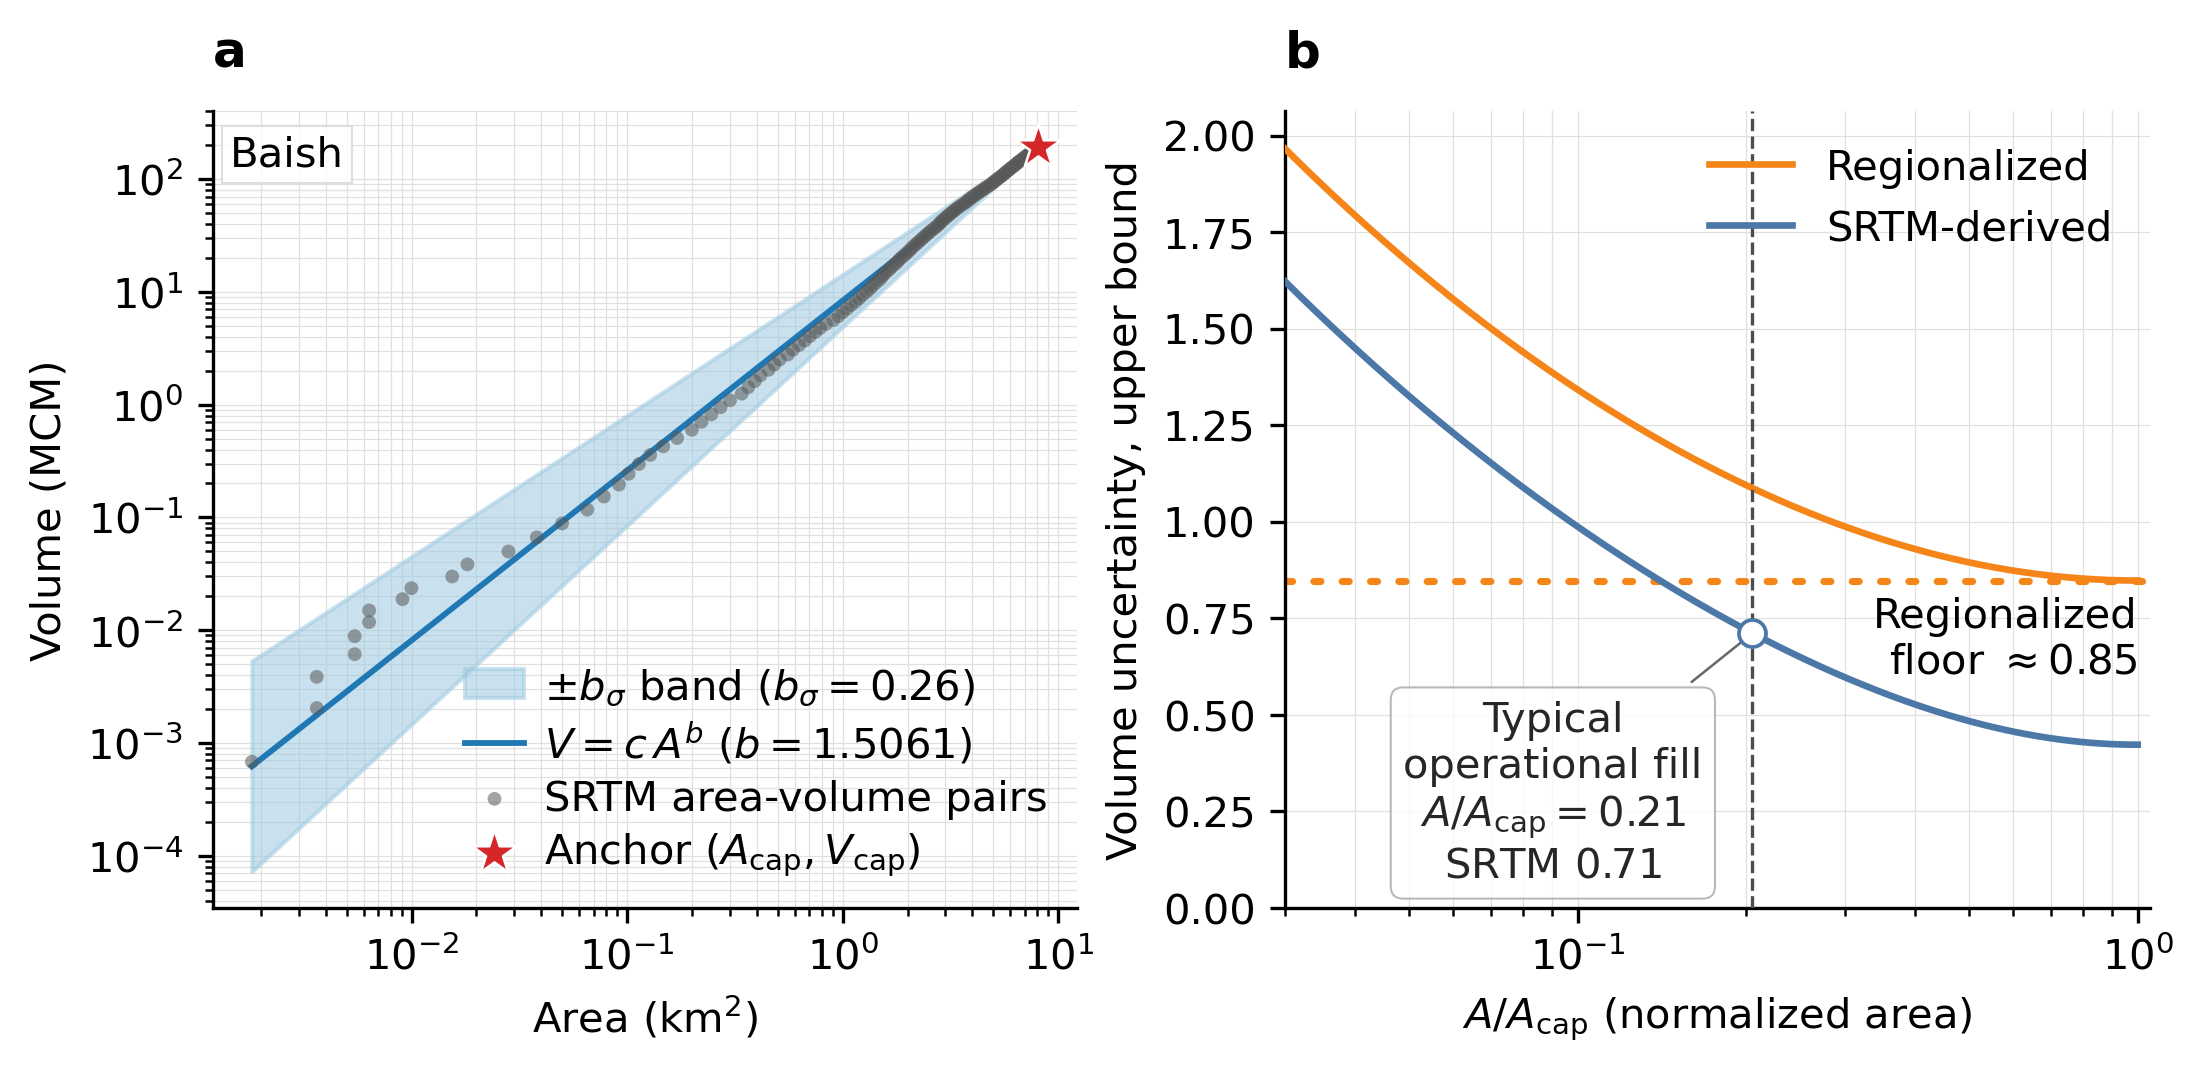
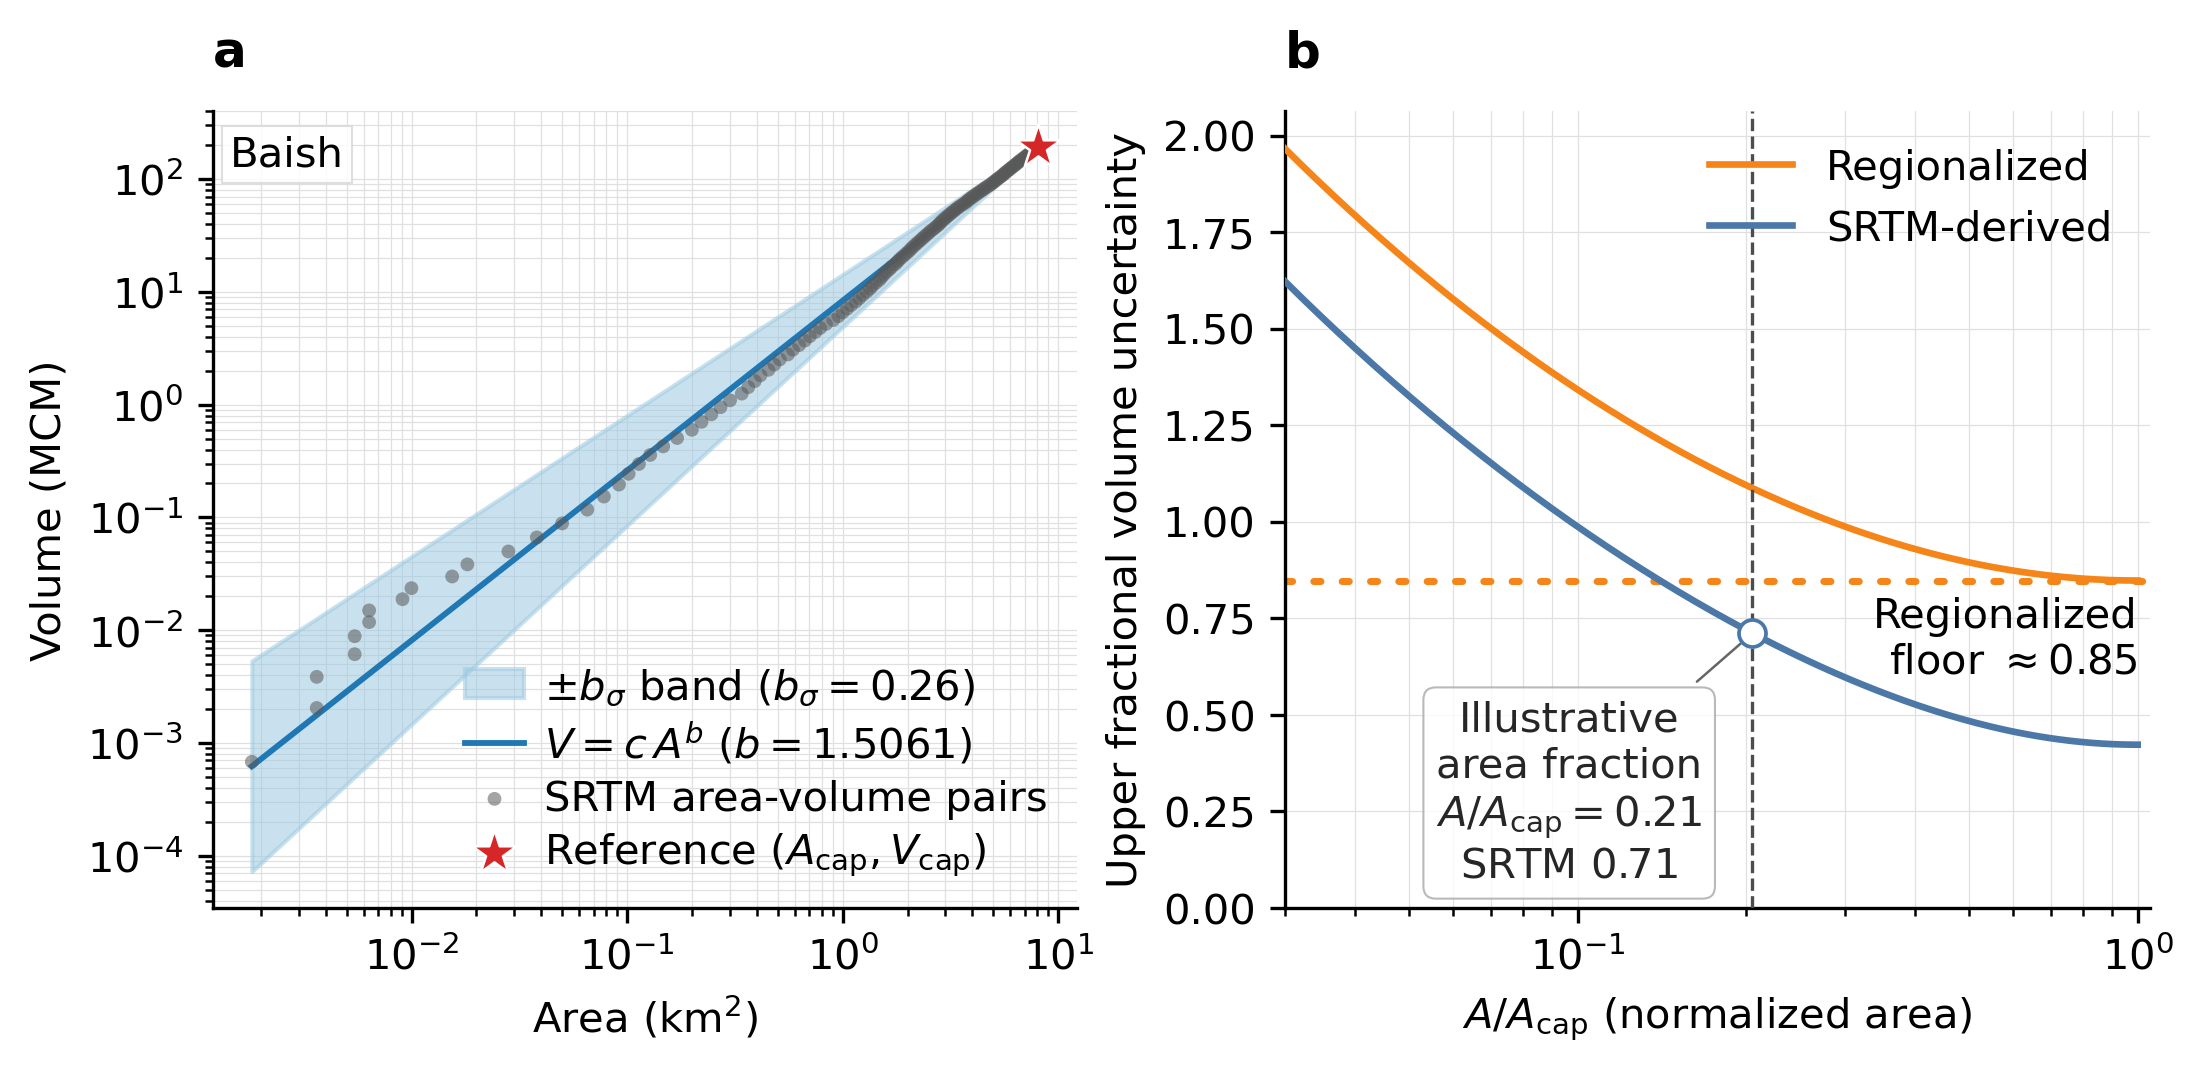
Panels s2 and s3 name the illustrative area fraction and show 10th to 90th percentile intervals
Panel s2 separates the exponent contribution from the combined
parameterization bands, names the marker at the median satellite-to-DEM
area ratio an illustrative area fraction and calls the star the reference
point. Panel s3 summarizes the variation among dams within each capacity
class with 10th to 90th percentile intervals. The plotted values are
unchanged, the report caption and the outputs page follow.

Changed region(s): [[0.6173, 0.6465, 0.7717, 0.8312], [0.4939, 0.1231, 0.5247, 0.8312], [0.2469, 0.7696, 0.4321, 0.8312]]

diff --git a/eaves/postprocess/panels/s2.py b/eaves/postprocess/panels/s2.py
@@ -1,11 +1,11 @@
-"""Panel s2 (supplementary): V uncertainty propagation from ``b_sigma``.
+"""Panel s2 (supplementary): parameterization uncertainty in reservoir volume.
 
-Two-panel illustration of how the population-level 1σ uncertainty on b
-propagates to a volume confidence band:
+Two-panel illustration of the exponent contribution and the combined
+parameterization bands:
 
 Panel a: Baish reservoir, SRTM-derived V(A) curve with the ±b_σ fan band of
-the geometric term alone, all curves pinned through the catalog full-pool
-anchor (A_cap, V_cap). Band and curve span the full SRTM data range.
+the geometric term alone, with a fixed reference point (A_cap, V_cap)
+defined on the fitted power law by catalog capacity.
 
 Panel b: Upper bound 10^σ − 1 of the two σ(log10 V) tiers as a function of
 normalized area. The SRTM-derived tier combines the band term
@@ -13,8 +13,9 @@ b_σ·|log10(A/A_cap)| in quadrature with the catalog-capacity term σ_logVcap.
 The regionalized tier adds the predicted-area term,
 σ_regi(A) = √((b·σ_logAcap)² + (b_σ·log10(A/A_cap))² + σ_logVcap²).
 The regionalized constants are the ``regi_multi`` medians read from
-``<CSV_DIR>/validation/v_uncertainty.csv``. The regional typical operational
-fill level is marked on the SRTM-derived curve, with the value of that curve.
+``<CSV_DIR>/validation/v_uncertainty.csv``. An illustrative area fraction,
+set to the median satellite-to-DEM area ratio, is marked on the SRTM-derived
+curve. This benchmark is not an estimate of the typical operating stage.
 """
 
 from __future__ import annotations
@@ -71,7 +72,8 @@ def _load_baish() -> tuple[dict, pd.DataFrame]:
     return info, eav
 
 
-def _typical_fill_level() -> float | None:
+def _illustrative_area_fraction() -> float | None:
+    """Returns the median satellite-to-DEM area ratio used as an illustrative fraction."""
     p = Path(_cfg.CSV_DIR) / "validation" / "dem_vs_sat_area.csv"
     if not p.exists():
         return None
@@ -106,7 +108,7 @@ def make_s2_uncertainty(out_dir: Path) -> Path:
     apply_style()
 
     info, eav = _load_baish()
-    typical_fill = _typical_fill_level()
+    area_fraction = _illustrative_area_fraction()
     regi = _regi_constants()
 
     out_dir = Path(out_dir)
@@ -151,7 +153,7 @@ def make_s2_uncertainty(out_dir: Path) -> Path:
         ax_a.scatter([A_cap / 1e6], [V_cap / 1e6],
                      marker="*", s=125, facecolor=_ANCHOR_COLOR,
                      edgecolor="white", linewidth=0.6, zorder=5,
-                     label=r"Anchor $(A_\mathrm{cap}, V_\mathrm{cap})$")
+                     label=r"Reference $(A_\mathrm{cap}, V_\mathrm{cap})$")
 
         ax_a.text(0.02, 0.97, info["dam_name"], transform=ax_a.transAxes,
                   ha="left", va="top",
@@ -197,19 +199,19 @@ def make_s2_uncertainty(out_dir: Path) -> Path:
                   "Regionalized\n" rf"floor $\approx {unc_floor:.2f}$",
                   color="black", ha="right", va="top", multialignment="right")
 
-        if typical_fill is not None and 0.02 < typical_fill < 1.0:
+        if area_fraction is not None and 0.02 < area_fraction < 1.0:
             # Uses the same expression as the SRTM-derived curve
-            sig_typ = float(np.hypot(b_sigma * np.log10(typical_fill), sig_vcap))
-            unc_typ = 10.0 ** sig_typ - 1.0
-            ax_b.axvline(typical_fill, color="0.30", linewidth=0.8,
+            sig_fraction = float(np.hypot(b_sigma * np.log10(area_fraction), sig_vcap))
+            unc_fraction = 10.0 ** sig_fraction - 1.0
+            ax_b.axvline(area_fraction, color="0.30", linewidth=0.8,
                          linestyle="--", zorder=4)
-            ax_b.scatter([typical_fill], [unc_typ], s=42, facecolor="white",
+            ax_b.scatter([area_fraction], [unc_fraction], s=42, facecolor="white",
                          edgecolor=COL_SRTM, linewidth=0.9, zorder=5)
             ax_b.annotate(
-                rf"Typical" "\n" rf"operational fill" "\n"
-                rf"$A/A_\mathrm{{cap}}={typical_fill:.2f}$" "\n"
-                rf"SRTM ${unc_typ:.2f}$",
-                xy=(typical_fill, unc_typ), xytext=(-12, -16),
+                rf"Illustrative" "\n" rf"area fraction" "\n"
+                rf"$A/A_\mathrm{{cap}}={area_fraction:.2f}$" "\n"
+                rf"SRTM ${unc_fraction:.2f}$",
+                xy=(area_fraction, unc_fraction), xytext=(-12, -16),
                 textcoords="offset points", color="0.15", ha="right", va="top",
                 multialignment="center",
                 bbox=dict(boxstyle="round,pad=0.3", facecolor="white", alpha=0.78,
@@ -219,7 +221,7 @@ def make_s2_uncertainty(out_dir: Path) -> Path:
 
         ax_b.set_xscale("log")
         ax_b.set_xlabel(r"$A / A_\mathrm{cap}$ (normalized area)")
-        ax_b.set_ylabel("Volume uncertainty, upper bound")
+        ax_b.set_ylabel("Upper fractional volume uncertainty")
         ax_b.set_xlim(frac.min(), 1.05)
         y_top = (10.0 ** max(
             b_sigma * abs(np.log10(frac.min())),

diff --git a/eaves/postprocess/panels/s3.py b/eaves/postprocess/panels/s3.py
@@ -12,8 +12,8 @@ Panel a: per-dam fractional volume uncertainty versus storage capacity
 drawn as a segment across the class capacity range and annotated. A dam with
 fewer than ``_MIN_VALID_REALIZATIONS`` valid realizations is left out.
 
-Panel b: the same spread summarized by capacity class, median and P16 to P84
-range over the per-dam strip, with the medians annotated.
+Panel b: the same spread summarized by capacity class, median and 10th to
+90th percentile interval over the per-dam strip, with the medians annotated.
 
 Reads:
 
@@ -105,7 +105,7 @@ def _draw_panel_a(ax, df: pd.DataFrame, y_max: float) -> None:
 
 
 def _draw_panel_b(ax, df: pd.DataFrame, y_max: float) -> None:
-    """Panel b, median and P16 to P84 range per capacity class over the per-dam strip."""
+    """Panel b, median and 10th to 90th percentile interval per capacity class over the per-dam strip."""
     xs = np.arange(len(_CLASS_LABELS))
     for i in range(len(_CLASS_LABELS)):
         sub = df[df["class_idx"] == i]
@@ -113,21 +113,21 @@ def _draw_panel_b(ax, df: pd.DataFrame, y_max: float) -> None:
             continue
         vals = (10.0 ** sub[_SIGMA].values - 1.0)
         med = float(np.median(vals))
-        p16 = float(np.quantile(vals, 0.16))
-        p84 = float(np.quantile(vals, 0.84))
+        p10 = float(np.quantile(vals, 0.10))
+        p90 = float(np.quantile(vals, 0.90))
         # Draws a jittered per-dam strip behind the summary marker
         jitter = (np.random.default_rng(i).random(len(vals)) - 0.5) * 0.18
         ax.scatter(xs[i] + jitter, vals, s=14, color=_CLASS_COLORS[i],
                    alpha=0.40, edgecolor="none", zorder=2)
         ax.errorbar(
-            xs[i], med, yerr=[[med - p16], [p84 - med]],
+            xs[i], med, yerr=[[med - p10], [p90 - med]],
             fmt="o", markersize=8, color=_CLASS_COLORS[i],
             ecolor=_CLASS_COLORS[i], elinewidth=1.6, capsize=5,
             capthick=1.6, zorder=4,
         )
         ax.annotate(
             f"{med:.2f}",
-            xy=(xs[i], p84), xytext=(0, 7),
+            xy=(xs[i], p90), xytext=(0, 7),
             textcoords="offset points", color="black", fontsize=10,
             ha="center", va="bottom",
         )
@@ -148,7 +148,7 @@ def make_s3_dem_error(out_dir: Path) -> Path:
     """Renders s3, the per-dam DEM-error volume uncertainty and its by-class summary in one row.
 
     Panel a: per-dam uncertainty against storage capacity with the class medians.
-    Panel b: median and P16 to P84 range per capacity class.
+    Panel b: median and 10th to 90th percentile interval per capacity class.
     """
     out_dir = Path(out_dir)
     out_dir.mkdir(parents=True, exist_ok=True)

diff --git a/eaves/postprocess/report.py b/eaves/postprocess/report.py
@@ -1599,23 +1599,18 @@ def render_report_md(stats: dict, generated_at: str) -> str:
     ))
     L.extend(_embed_figure(
         "s2_uncertainty_band.png",
-        "Supplementary: Per-dam volume uncertainty band",
-        "Figure S2. Per-dam volume uncertainty band. "
+        "Supplementary: Parameterization uncertainty bands for reservoir volume",
+        "Figure S2. Parameterization uncertainty bands for reservoir volume. "
         f"(a) Worked example on {exname} dam. The ±b_σ band shows the "
-        "geometric term alone. It is forced through the catalog full-pool "
-        "anchor (red star) and widens at lower water levels. (b) The two "
-        "σ(log₁₀V) tiers versus normalized area, "
-        "shown as the upper bound of the band. The SRTM-derived tier is "
-        f"floored by the catalog-capacity term ({floor_srtm} at the anchor) "
-        "and widens with the geometric b_σ term away from full pool, while "
-        "the regionalized tier adds the area-independent "
-        f"anchor terms and floors near {floor_regi}. The regional typical "
-        "operational fill level (the median 95th-percentile observed extent "
-        "as a fraction of the SRTM-derived full-pool area) is overlaid as a "
-        "vertical dashed line, and a marker on "
-        "the SRTM-derived curve gives the band at that level, so the V "
-        "uncertainty at the fill level at which most reservoirs in this "
-        "region operate can be read off directly.",
+        "exponent contribution with a fixed reference point "
+        "(A_cap, V_cap) on the fitted power law (red star). "
+        "(b) The combined bands versus normalized area, plotted as the "
+        "upper fractional deviation 10<sup>σ</sup> − 1. At the reference "
+        f"area, the SRTM-derived band is {floor_srtm} and the regionalized "
+        f"band is {floor_regi}. The dashed line marks an illustrative "
+        "area fraction set to the median ratio of the 95th-percentile "
+        "satellite water extent to the SRTM-derived full-pool area. "
+        "The circle gives the combined SRTM-derived band at this benchmark.",
     ))
     A("")
 

diff --git a/region/ksa/output/report.md b/region/ksa/output/report.md
@@ -222,9 +222,9 @@ To run EAVES on a new region, give the paths of the dam catalog, the DEM and the
 
 _Figure S1. K-means clustering diagnostic on the training-set dams in log-transformed morphometric feature space. (a) Mean silhouette coefficient versus number of clusters k for the six morphometric features. It remains below the conventional 0.50 reasonable-structure threshold for every k. The k = 2 peak at 0.37 reflects a cut across the dominant gradient of panel b, not two morphological types. (b) The training dams in the plane of the first two principal components of the standardized log-transformed features, colored by b, with marker shapes for the clusters at the best k of panel c. The first two components carry 60% and 16% of the variance, and b varies along the first (Spearman ρ = -0.41), so the dams form one continuous cloud along which b changes gradually. (c) Leave-one-out σ(Δb) for a per-cluster-median predictor of b versus the global-median baseline (dashed). The best configuration (k = 3) lowers σ(Δb) by 14%, while its leave-one-out R² stays at 0.09, below the 0.25 gate._
 
-![Supplementary: Per-dam volume uncertainty band](2_results_plots/s2_uncertainty_band.png)
+![Supplementary: Parameterization uncertainty bands for reservoir volume](2_results_plots/s2_uncertainty_band.png)
 
-_Figure S2. Per-dam volume uncertainty band. (a) Worked example on Baish dam. The ±b_σ band shows the geometric term alone. It is forced through the catalog full-pool anchor (red star) and widens at lower water levels. (b) The two σ(log₁₀V) tiers versus normalized area, shown as the upper bound of the band. The SRTM-derived tier is floored by the catalog-capacity term (+42%/-30% at the anchor) and widens with the geometric b_σ term away from full pool, while the regionalized tier adds the area-independent anchor terms and floors near +85%/-46%. The regional typical operational fill level (the median 95th-percentile observed extent as a fraction of the SRTM-derived full-pool area) is overlaid as a vertical dashed line, and a marker on the SRTM-derived curve gives the band at that level, so the V uncertainty at the fill level at which most reservoirs in this region operate can be read off directly._
+_Figure S2. Parameterization uncertainty bands for reservoir volume. (a) Worked example on Baish dam. The ±b_σ band shows the exponent contribution with a fixed reference point (A_cap, V_cap) on the fitted power law (red star). (b) The combined bands versus normalized area, plotted as the upper fractional deviation 10<sup>σ</sup> − 1. At the reference area, the SRTM-derived band is +42%/-30% and the regionalized band is +85%/-46%. The dashed line marks an illustrative area fraction set to the median ratio of the 95th-percentile satellite water extent to the SRTM-derived full-pool area. The circle gives the combined SRTM-derived band at this benchmark._
 
 ## Files produced
 

diff --git a/documentation/outputs.md b/documentation/outputs.md
@@ -37,8 +37,8 @@ Every panel is emitted as both a 300-dpi PNG and a vector PDF with the same stem
 | `p5_comparison.png` | Baish comparison and domain-wide volume ratio, (a) area-volume and (b) elevation-area curves from SRTM, the 2025 sonar survey and the design table, and (c) the distribution of maximum SRTM-derived volume divided by catalog capacity. SRTM shows the valley in 2000 and the survey the reservoir in 2025, so the comparison alone cannot separate reconstruction error from changes in reservoir geometry |
 | `p6_grdl_comparison.png` | Comparison of SRTM-derived and GRDL reservoir curves at Baish, Hali and Rabigh, (a) area-volume and (b) depth-area curves, one row per dam. Both products use SRTM and GRDL is itself a reconstruction, so the comparison assesses consistency rather than accuracy against measured bathymetry |
 | `s1_b_clustering_silhouette.png` | Supplementary: K-means clustering diagnostic for `b` on the training set, (a) the silhouette over k, (b) the training dams in the plane of the first two principal components, colored by `b`, where they form one continuous cloud along which `b` changes gradually, and (c) the LOO σ(Δb) over k |
-| `s2_uncertainty_band.png` | Supplementary: the per-dam V uncertainty band, (a) the worked example on Baish and (b) the two band tiers versus normalized area, with the regionalized floor and the typical operational fill level marked |
-| `s3_dem_error.png` | Supplementary: SRTM vertical-error Monte Carlo volume spread by size class |
+| `s2_uncertainty_band.png` | Supplementary: parameterization uncertainty in volume, (a) the exponent contribution at Baish and (b) the combined bands versus normalized area, with the regionalized floor and an illustrative fraction set to the median satellite-to-DEM area ratio |
+| `s3_dem_error.png` | Supplementary: SRTM vertical-error Monte Carlo volume spread by capacity class, with class medians and 10th to 90th percentile intervals across dams |
 | `s4_threshold_analysis.png` | Supplementary: capacity-threshold sweep behind the training cut of the regional exponent |
 | `s5_sensitivity.png` | Supplementary: sensitivity of the trusted set to the placement and acceptance constants |
 

diff --git a/CHANGELOG.md b/CHANGELOG.md
@@ -268,6 +268,13 @@ The project adheres to [Semantic Versioning](https://semver.org/).
   states what the volume band excludes and lists the resolution and
   single-exponent limits, and the data dependencies name the GRDL
   version and its archive. The outputs change in their wording only.
+- **Supplementary panels s2 and s3** (`eaves.postprocess.panels.s2`,
+  `eaves.postprocess.panels.s3`, `eaves.postprocess.report`). Panel s2
+  separates the exponent contribution from the combined parameterization
+  bands, names the marker at the median satellite-to-DEM area ratio an
+  illustrative area fraction and calls the star the reference point. Panel
+  s3 summarizes the variation among dams within each capacity class with
+  10th to 90th percentile intervals. The plotted values are unchanged.
 
 ### Removed
 
